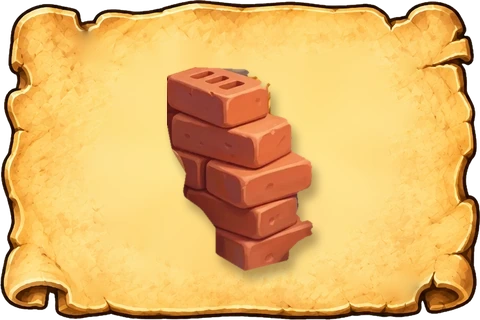
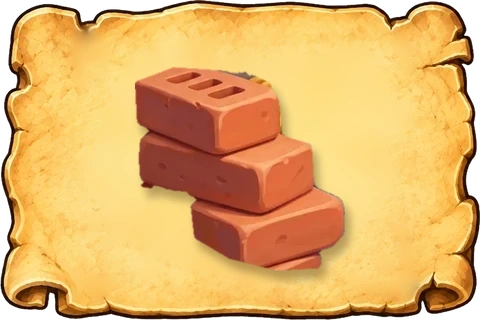
Thẻ gạch: cắt gọn chồng gạch, bỏ phần rách mép
Claude-Session: https://claude.ai/code/session_01C6iMuiryePgrs9m7ahj8VB

Changed region(s): [[0.2812, 0.1875, 0.75, 0.9062]]

diff --git a/games/dao-khai-hoang/art.js b/games/dao-khai-hoang/art.js
@@ -95,19 +95,19 @@ const KHART=(()=>{
     [[ax,ay],[bx,by]].forEach(([x,y])=>{ const L=Math.hypot(px-x,py-y), ux=(px-x)/L, uy=(py-y)/L; const nx=-uy*3.2, ny=ux*3.2;
       o+=`<polygon points="${f(x+nx)},${f(y+ny)} ${f(px+nx*.6)},${f(py+ny*.6)} ${f(px-nx*.6)},${f(py-ny*.6)} ${f(x-nx)},${f(y-ny)}" fill="#d9b27a" stroke="#8a5a2c" stroke-width="1.4"/>`;
       for(let k=1;k<6;k++){ const q=k/6; o+=`<line x1="${f(x+(px-x)*q+nx)}" y1="${f(y+(py-y)*q+ny)}" x2="${f(x+(px-x)*q-nx)}" y2="${f(y+(py-y)*q-ny)}" stroke="#8a5a2c" stroke-width="1"/>`; } });
-    o+=`<g transform="translate(${f(px)},${f(py)}) scale(1.25)"><path d="M-25 10 q6 -4 12 0 t12 0 t12 0 t12 0 t12 0" stroke="#fff" stroke-width="2.4" fill="none" opacity=".9"/><path d="M-20 14 q5 -3 10 0 t10 0 t10 0 t10 0" stroke="#bff3fb" stroke-width="1.6" fill="none" opacity=".8"/><g class="boat"><image href="assets/boat.webp?v=20261128zt" x="-20" y="-36.8" width="40" height="47.7" preserveAspectRatio="none"/></g></g>`;
+    o+=`<g transform="translate(${f(px)},${f(py)}) scale(1.25)"><path d="M-25 10 q6 -4 12 0 t12 0 t12 0 t12 0 t12 0" stroke="#fff" stroke-width="2.4" fill="none" opacity=".9"/><path d="M-20 14 q5 -3 10 0 t10 0 t10 0 t10 0" stroke="#bff3fb" stroke-width="1.6" fill="none" opacity=".8"/><g class="boat"><image href="assets/boat.webp?v=20261128zu" x="-20" y="-36.8" width="40" height="47.7" preserveAspectRatio="none"/></g></g>`;
     const bx2=px+Math.cos(ang)*42, by2=py+Math.sin(ang)*42;
     o+=`<g transform="translate(${f(bx2)},${f(by2)})"><circle r="15.5" fill="#f7ebcd" stroke="#9a6b36" stroke-width="2.4"/><circle r="12.5" fill="none" stroke="#c9a26a" stroke-width=".9"/>${t>=0?resMini(t,0,-4,.75):''}<text y="${t>=0?9:5}" class="pt">${t<0?'3:1':'2:1'}</text></g>`;
     return o; }
   // ---------- quân cờ ----------
   function shade(c,v){ return v>0?mix(c,'#ffffff',v):mix(c,'#000000',-v); }
   const HSPR={'#e11d48':'red','#2563eb':'blue','#16a34a':'green','#f8fafc':'white'};
-  function house(x,y,c,city,z){ z=z||1.28; const n=HSPR[c]||'red', u=`assets/house-${n}.webp?v=20261128zt`;
-    if(city){ const cu=`assets/city-${n}.webp?v=20261128zt`; return `<g transform="translate(${f(x)},${f(y)}) scale(${z})"><ellipse cx="0" cy="12" rx="19" ry="5.5" fill="#6b4423" opacity=".38"/><image href="${cu}" x="-19" y="-24" width="38" height="38" preserveAspectRatio="none"/></g>`; }
+  function house(x,y,c,city,z){ z=z||1.28; const n=HSPR[c]||'red', u=`assets/house-${n}.webp?v=20261128zu`;
+    if(city){ const cu=`assets/city-${n}.webp?v=20261128zu`; return `<g transform="translate(${f(x)},${f(y)}) scale(${z})"><ellipse cx="0" cy="12" rx="19" ry="5.5" fill="#6b4423" opacity=".38"/><image href="${cu}" x="-19" y="-24" width="38" height="38" preserveAspectRatio="none"/></g>`; }
     return `<g transform="translate(${f(x)},${f(y)}) scale(${z})"><ellipse cx="0" cy="10" rx="12" ry="3.6" fill="#6b4423" opacity=".35"/><image href="${u}" x="-12" y="-15.4" width="24" height="25.4" preserveAspectRatio="none"/></g>`; }
   function road(ax,ay,bx,by,c){ const n=HSPR[c]||'red', mx=(ax+bx)/2, my=(ay+by)/2; let ang=Math.atan2(by-ay,bx-ax)*180/Math.PI; if(ang>90) ang-=180; if(ang<-90) ang+=180;
     const L=Math.hypot(bx-ax,by-ay), w=Math.min(L-18,40), h=w*170/360;
-    return `<g transform="translate(${f(mx)},${f(my)}) rotate(${f(ang)})"><rect x="${f(-w/2+3)}" y="${f(-h/2+4)}" width="${f(w-6)}" height="${f(h-4)}" rx="4" fill="#6b4423" opacity=".35"/><image href="assets/road-${n}.webp?v=20261128zt" x="${f(-w/2)}" y="${f(-h/2-1)}" width="${f(w)}" height="${f(h)}" preserveAspectRatio="none"/></g>`; }
+    return `<g transform="translate(${f(mx)},${f(my)}) rotate(${f(ang)})"><rect x="${f(-w/2+3)}" y="${f(-h/2+4)}" width="${f(w-6)}" height="${f(h-4)}" rx="4" fill="#6b4423" opacity=".35"/><image href="assets/road-${n}.webp?v=20261128zu" x="${f(-w/2)}" y="${f(-h/2-1)}" width="${f(w)}" height="${f(h)}" preserveAspectRatio="none"/></g>`; }
   function robber(x,y){ return `<g transform="translate(${f(x)},${f(y)})" class="robber"><ellipse cx="2" cy="15" rx="11" ry="4" fill="#000" opacity=".45"/><path d="M-9,14 Q-11,6 -5,0 Q-8,-4 -6,-8 A7,7 0 1 1 6,-8 Q8,-4 5,0 Q11,6 9,14Z" fill="url(#khRob)" stroke="#000" stroke-width="1.2"/><ellipse cx="-3" cy="-10" rx="2.6" ry="3.6" fill="#fff" opacity=".35"/><ellipse cx="-5" cy="6" rx="2" ry="5" fill="#fff" opacity=".18"/><rect x="-9" y="12" width="18" height="3" rx="1.5" fill="#111"/></g>`; }
   function token(x,y,n){ const hot=n===6||n===8, k=KH.PIPS[n]||0;
     return `<g class="tok"><ellipse cx="${f(x+2)}" cy="${f(y+5)}" rx="17" ry="7" fill="#000" opacity=".35"/><circle cx="${f(x)}" cy="${f(y+2.5)}" r="16.5" fill="#8a6636"/><circle cx="${f(x)}" cy="${f(y)}" r="16" fill="url(#khToken)" stroke="#8a6636" stroke-width="2.2"/><circle cx="${f(x)}" cy="${f(y)}" r="13" fill="none" stroke="#fff" stroke-opacity=".7" stroke-width=".9"/>
@@ -115,9 +115,9 @@ const KHART=(()=>{
   // ---------- toàn bàn cờ tĩnh ----------
   function board(S,box){ const H=KH.HEX, V=KH.V, E=KH.E; const {minX,minY,w,h}=box;
     let s=`<defs>${defs()}${H.map((hx,i)=>`<clipPath id="khc${i}"><polygon points="${hexPts(hx.x*R,hx.y*R,R)}"/></clipPath>`).join('')}<clipPath id="khIsl"><polygon points="${island()}"/></clipPath></defs>`;
-    s+=`<rect x="${minX-500}" y="${minY-200}" width="${w+1000}" height="${h+400}" fill="#22b9e6"/><image href="assets/sea.webp?v=20261128zt" x="${minX-500}" y="${minY-200}" width="${w+1000}" height="${h+400}" preserveAspectRatio="xMidYMid slice"/>`;
+    s+=`<rect x="${minX-500}" y="${minY-200}" width="${w+1000}" height="${h+400}" fill="#22b9e6"/><image href="assets/sea.webp?v=20261128zu" x="${minX-500}" y="${minY-200}" width="${w+1000}" height="${h+400}" preserveAspectRatio="xMidYMid slice"/>`;
     { const Ri=4.3*R, kh=Ri/496.5, kv=.866*Ri/407.5, W=1254*kh, Hh=1254*kv; // đảo nền: lót cát + vành bãi cát vẽ sẵn
-      s+=`<polygon points="${island(4.35/4.85)}" fill="#e9bf7c"/><image href="assets/island-ring.webp?v=20261128zt" x="${f(-626.5*kh)}" y="${f(-615.5*kv)}" width="${f(W)}" height="${f(Hh)}" preserveAspectRatio="none"/>`; }
+      s+=`<polygon points="${island(4.35/4.85)}" fill="#e9bf7c"/><image href="assets/island-ring.webp?v=20261128zu" x="${f(-626.5*kh)}" y="${f(-615.5*kv)}" width="${f(W)}" height="${f(Hh)}" preserveAspectRatio="none"/>`; }
     s+=`<polygon points="${island(4.35/4.85)}" fill="#e9bf7c" opacity="0" clip-path="url(#khIsl)"/>`;
     const leaf=(x,y,r,c)=>`<circle cx="${f(x)}" cy="${f(y)}" r="${f(r)}" fill="${c}" stroke="#1f4a14" stroke-width="2.2"/><circle cx="${f(x-r*.3)}" cy="${f(y-r*.3)}" r="${f(r*.45)}" fill="#b6e66a" opacity=".55"/>`;
     const fol=(x,y,sg)=>`<g>`+`<path d="M${f(x)} ${f(y+70)} q${f(sg*-30)} ${f(-40)} ${f(sg*-90)} ${f(-70)}" stroke="#5a3a1c" stroke-width="12" fill="none" stroke-linecap="round"/><path d="M${f(x)} ${f(y+70)} q${f(sg*-30)} ${f(-40)} ${f(sg*-90)} ${f(-70)}" stroke="#8a5a2c" stroke-width="5" fill="none" stroke-linecap="round" opacity=".7"/>`+[[-20,28,26,'#4fa83a'],[-58,6,24,'#5fba44'],[-30,-6,22,'#3f9632'],[-78,34,20,'#4fa83a'],[4,-4,20,'#5fba44'],[-46,50,18,'#3f9632']].map(([dx,dy,r,c])=>leaf(x+sg*dx,y+dy,r,c)).join('')+`</g>`;
@@ -126,7 +126,7 @@ const KHART=(()=>{
     // ô đất (đế 3D + hình)
     H.forEach((hx,i)=>{ const cx=hx.x*R, cy=hx.y*R; s+=`<polygon points="${hexPts(cx,cy+6,R-1)}" fill="#d2b27a"/>${window.KH_LITE?'':`<polygon points="${hexPts(cx+2,cy+9,R)}" fill="#7a5a2a" opacity=".18" filter="url(#khSoft)"/>`}`; });
     H.forEach((hx,i)=>{ const cx=hx.x*R, cy=hx.y*R, hd=S.hex[i];
-      const HI=(window.KH_IMGS||{}).hex||[]; s+=`<g clip-path="url(#khc${i})">${HI.includes(hd.res)?`${hd.res<=5?`<image href="assets/hex-${hd.res}.webp?v=20261128zt" x="${f(cx-R*.9)}" y="${f(cy-R*1.04)}" width="${f(R*1.8)}" height="${f(R*2.08)}" preserveAspectRatio="none"/>`:`<image href="assets/hex-${hd.res}.webp?v=20261128zt" x="${f(cx-R*1.1)}" y="${f(cy-R*1.1)}" width="${f(R*2.2)}" height="${f(R*2.2)}" preserveAspectRatio="xMidYMid slice"/>`}`:terrain(hd.res,cx,cy,i)}${window.KH_LITE?'':`<rect x="${f(cx-R)}" y="${f(cy-R)}" width="${2*R}" height="${2*R}" filter="url(#khNoise)" opacity=".07"/>`}</g>`;
+      const HI=(window.KH_IMGS||{}).hex||[]; s+=`<g clip-path="url(#khc${i})">${HI.includes(hd.res)?`${hd.res<=5?`<image href="assets/hex-${hd.res}.webp?v=20261128zu" x="${f(cx-R*.9)}" y="${f(cy-R*1.04)}" width="${f(R*1.8)}" height="${f(R*2.08)}" preserveAspectRatio="none"/>`:`<image href="assets/hex-${hd.res}.webp?v=20261128zu" x="${f(cx-R*1.1)}" y="${f(cy-R*1.1)}" width="${f(R*2.2)}" height="${f(R*2.2)}" preserveAspectRatio="xMidYMid slice"/>`}`:terrain(hd.res,cx,cy,i)}${window.KH_LITE?'':`<rect x="${f(cx-R)}" y="${f(cy-R)}" width="${2*R}" height="${2*R}" filter="url(#khNoise)" opacity=".07"/>`}</g>`;
       s+=`<polygon points="${hexPts(cx,cy,R-1)}" fill="none" stroke="#d9bb82" stroke-width="3.4" stroke-linejoin="round"/><polygon points="${hexPts(cx,cy,R-4.5)}" fill="none" stroke="#b58b52" stroke-opacity=".45" stroke-width="1.3"/><polygon points="${hexPts(cx,cy,R)}" fill="none" stroke="#f3e2bb" stroke-width="1.6"/>`;
       });
     H.forEach((hx,i)=>{ const hd=S.hex[i]; if(hd.num) s+=token(hx.x*R,hx.y*R+8,hd.num); });
@@ -142,7 +142,7 @@ const KHART=(()=>{
   function resCard(r){ if(ccache['r'+r]) return ccache['r'+r]; const id='khrc'+r, nm=RN[r].toUpperCase();
     const s=`<svg viewBox="0 0 100 76" class="rcard"><defs>
       <linearGradient id="${id}w" x1="0" y1="0" x2="0" y2="1"><stop offset="0" stop-color="#c98a52"/><stop offset=".45" stop-color="#a8642f"/><stop offset="1" stop-color="#7d4520"/></linearGradient></defs>
-      <image href="assets/res-${r}.webp?v=20261128zt" x="1" y="10" width="98" height="65" preserveAspectRatio="none"/>
+      <image href="assets/res-${r}.webp?v=20261128zu" x="1" y="10" width="98" height="65" preserveAspectRatio="none"/>
       <g class="plank" transform="scale(1,.88)"><path d="M13 3.5 L16 1.5 H84 L87 3.5 L89 5.5 V17.5 L87 19.5 L84 21.5 H16 L13 19.5 L11 17.5 V5.5Z" fill="#1b0f06" transform="translate(0,1.2)" opacity=".55"/>
       <path d="M13 3 L16 1 H84 L87 3 L89 5 V17 L87 19 L84 21 H16 L13 19 L11 17 V5Z" fill="url(#${id}w)" stroke="#1b0f06" stroke-width="1.6" stroke-linejoin="round"/>
       <path d="M15 5 H55 M60 4.6 H84 M16 11 H40 M47 10.6 H70 M74 11 H86 M15 17.6 H48 M56 17.4 H84" stroke="#6b3a17" stroke-width=".7" stroke-linecap="round" fill="none" opacity=".7"/>
@@ -201,7 +201,7 @@ const KHART=(()=>{
     <text x="35" y="59" class="rn" style="font-size:22px;fill:#ffe9a8;stroke:#2e1809;stroke-width:3px;paint-order:stroke">?</text></svg>`; }
   function medal(k){ const road=k==='road', id='khmd'+k; return `<svg viewBox="0 0 64 64" class="mdl"><defs><linearGradient id="${id}g" x1="0" y1="0" x2="1" y2="1"><stop offset="0" stop-color="#fff0b0"/><stop offset=".5" stop-color="#e0a62c"/><stop offset="1" stop-color="#8a5a10"/></linearGradient><clipPath id="${id}c"><circle cx="32" cy="32" r="23"/></clipPath></defs>
     <circle cx="32" cy="33" r="30" fill="#000" opacity=".3"/><circle cx="32" cy="32" r="30" fill="url(#${id}g)" stroke="#4a2b08" stroke-width="2"/><circle cx="32" cy="32" r="24.5" fill="${road?'#c79a5a':'#6f86a8'}" stroke="#4a2b08" stroke-width="1.6"/>
-    ${road?`<g clip-path="url(#${id}c)"><rect x="8" y="8" width="48" height="48" fill="#8cc152"/><image href="assets/road-neutral.webp?v=20261128zt" x="9" y="22" width="46" height="21.7" preserveAspectRatio="none"/></g>`:`<g clip-path="url(#${id}c)"><image href="assets/dev-knight.webp?v=20261128zt" x="6" y="7" width="52" height="55.5" preserveAspectRatio="xMidYMid slice"/></g>`}
+    ${road?`<g clip-path="url(#${id}c)"><rect x="8" y="8" width="48" height="48" fill="#8cc152"/><image href="assets/road-neutral.webp?v=20261128zu" x="9" y="22" width="46" height="21.7" preserveAspectRatio="none"/></g>`:`<g clip-path="url(#${id}c)"><image href="assets/dev-knight.webp?v=20261128zu" x="6" y="7" width="52" height="55.5" preserveAspectRatio="xMidYMid slice"/></g>`}
     <circle cx="32" cy="32" r="24.5" fill="none" stroke="#4a2b08" stroke-width="1.6"/><g transform="translate(47,48)"><circle r="11.5" fill="#d92d2d" stroke="#4a0f0f" stroke-width="2"/><text y="5" class="rn" style="font-size:14px;fill:#fff;stroke:#4a0f0f;stroke-width:3px;paint-order:stroke">+2</text></g></svg>`; }
   return {R,board,house,road,robber,die,resCard,devCard,devBack,medal,resMini,hexPts,shade,RC};
 })();

diff --git a/games/dao-khai-hoang/ui.js b/games/dao-khai-hoang/ui.js
@@ -78,12 +78,12 @@ const KHUI=(()=>{
     let L=h, HV=''; h='';
     h+=`<div class="pls">${S.seats.map((p,i)=>{ const Q=S.P[i]; const left=S.turn===i&&S.phase!=='over'?Math.max(0,90-Math.floor((t-S.turnAt)/1000)):null;
       return `<div class="pl ${S.turn===i?'turn':''} ${S.winner===i?'win':''}" data-p="${i}" style="--pc:${PC[i]}"><div class="ph"><svg viewBox="-12 -16 24 28" class="pk">${A.house(0,0,PC[i],false,1)}</svg><b>${api.esc(p.name)}</b>${i===ME?' (bạn)':''}<span class="meds">${S.longest===i?`<span class="medal lr" title="Đường dài nhất +2 điểm">${A.medal('road')}</span>`:''}${S.largest===i?`<span class="medal la" title="Quân mạnh nhất +2 điểm">${A.medal('army')}</span>`:''}</span>${left!=null?` <span class="tmr">${left}</span>`:''}<span class="vp">${KH.vp(S,i,i===ME||S.phase==='over')}<small>điểm</small></span></div>
-        <div class="pcn"><span title="Nhà"><img src="assets/house-neutral.webp?v=20261128zt">${5-Q.towns}</span><span title="Thành phố"><img src="assets/city-neutral.webp?v=20261128zt">${4-Q.cities}</span><span title="Đường"><img src="assets/road-neutral.webp?v=20261128zt" class="rd">${15-Q.roads}</span></div>
+        <div class="pcn"><span title="Nhà"><img src="assets/house-neutral.webp?v=20261128zu">${5-Q.towns}</span><span title="Thành phố"><img src="assets/city-neutral.webp?v=20261128zu">${4-Q.cities}</span><span title="Đường"><img src="assets/road-neutral.webp?v=20261128zu" class="rd">${15-Q.roads}</span></div>
         ${i!==ME&&ME>=0?`<button class="tbtn sm pto" data-a="offerto" data-p="${i}" ${main&&P&&P.res[og]>=oq&&og!==ow?'':'disabled'} title="Gửi: đưa ${oq} ${KH_RES[og]}, lấy ${on} ${KH_RES[ow]}">Yêu cầu đổi</button>`:''}
         <div class="ps"><span title="Tài nguyên"><i>Tài nguyên: </i><u>🎴</u><b class="rn2">${KH.tot(Q.res)}</b></span><span title="Thẻ phát triển"><i>Thẻ PT: </i><u>📜</u>${Q.dev.length+Q.newDev.length}</span><span title="Hiệp sĩ đã dùng"><i>Hiệp sĩ: </i><u>⚔</u>${Q.knights}</span></div>
         </div>`; }).join('')}</div>`;
     const S1=h; h='';
-    { const V='?v=20261128zt';
+    { const V='?v=20261128zu';
       const cc=c=>c.map((x,r)=>x?`<span class="cr">${[...Array(x)].map(()=>`<svg viewBox="-9 -8 18 16" width="21" height="19">${A.resMini(r,0,0,.8)}</svg>`).join('')}</span>`:'').join('');
       const row=(ic,t,pt,c,att,dis,on)=>`<button class="ctr cbtn ${on?'on':''}" ${att} ${dis?'disabled':''}><span class="cic">${ic}</span><span class="ctx"><b>${t}</b><small>${pt}</small></span><span class="cco">${cc(c)}</span></button>`;
       const okR=main&&P&&(KH.canPay(P,KH_COST.road)||S.free)&&P.roads>0, okT=main&&P&&KH.canPay(P,KH_COST.town)&&P.towns>0, okC=main&&P&&KH.canPay(P,KH_COST.city)&&P.cities>0, okD=main&&P&&KH.canPay(P,KH_COST.dev)&&S.dev.length>0;
@@ -111,7 +111,7 @@ const KHUI=(()=>{
         const popH=pop==='bank'?`<div class="box pop"><div class="cth">Đổi với cảng · ngân hàng</div><div class="plb">Đưa (số lá cần có)</div><div class="rrow">${gb}</div><div class="plb">Lấy</div><div class="rrow">${wb}</div><button class="tbtn pri wide" data-a="trade" ${okT?'':'disabled'}>Đổi ${rt[tg]} ${KH_RES[tg]} lấy 1 ${KH_RES[tw]}</button></div>`
           :pop==='offer'?`<div class="box pop ptr"><div class="cth">Yêu cầu đổi với người chơi</div><div class="prow"><span>Đưa</span><select data-s="oq">${qty(oq)}</select><select data-s="og">${opt(0,og,ow)}</select></div><div class="prow"><span>Lấy</span><select data-s="on">${qty(on)}</select><select data-s="ow">${opt(0,ow,og)}</select></div>
           <div class="prow"><span>Cho</span><select data-s="ot"><option value="-1" ${ot<0?'selected':''}>Tất cả</option>${others.map(i=>`<option value="${i}" ${ot===i?'selected':''}>${api.esc(S.seats[i].name)}</option>`).join('')}</select></div>${main?(P.res[og]>=oq?'':'<div class="chint">Bạn chưa đủ lá để đưa</div>'):'<div class="chint">Chỉ gửi được trong lượt của bạn, sau khi đổ xúc xắc</div>'}<button class="tbtn pri wide" data-a="offer" ${okO?'':'disabled'}>Gửi yêu cầu đổi</button></div>`:'';
-        HV+=`<div class="tbar">${popH}<button class="bt ${anyB?'ring':''} ${pop==='bank'?'on':''}" data-a="pop" data-k="bank" title="Đổi với cảng / ngân hàng"><img src="assets/boat.webp?v=20261128zt" alt=""><small>Đổi cảng</small></button><button class="bt bm ${pop==='offer'?'on':''}" data-a="pop" data-k="offer" title="Chợ: yêu cầu đổi với người chơi"><svg viewBox="0 0 50 50" width="46" height="46" class="mk"><rect x="9" y="19" width="3" height="22" rx="1" fill="#8a5a2c" stroke="#3a210c" stroke-width="1"/><rect x="38" y="19" width="3" height="22" rx="1" fill="#8a5a2c" stroke="#3a210c" stroke-width="1"/><g stroke="#3a210c" stroke-width="1.1" stroke-linejoin="round"><polygon points="10,9 16,9 13.6,20 6.0,20" fill="#e11d48"/><polygon points="16,9 22,9 21.2,20 13.6,20" fill="#fff4d6"/><polygon points="22,9 28,9 28.8,20 21.2,20" fill="#e11d48"/><polygon points="28,9 34,9 36.4,20 28.8,20" fill="#fff4d6"/><polygon points="34,9 40,9 44.0,20 36.4,20" fill="#e11d48"/><circle cx="9.8" cy="20" r="3.8" fill="#e11d48"/><circle cx="17.4" cy="20" r="3.8" fill="#fff4d6"/><circle cx="25.0" cy="20" r="3.8" fill="#e11d48"/><circle cx="32.6" cy="20" r="3.8" fill="#fff4d6"/><circle cx="40.2" cy="20" r="3.8" fill="#e11d48"/></g><rect x="7" y="33" width="36" height="9" rx="2" fill="#b8763a" stroke="#3a210c" stroke-width="1.2"/><rect x="7" y="33" width="36" height="3" rx="1.5" fill="#d99a58"/><circle cx="17" cy="31" r="3.6" fill="#ef4444" stroke="#3a210c" stroke-width="1"/><circle cx="25" cy="30.5" r="3.6" fill="#facc15" stroke="#3a210c" stroke-width="1"/><circle cx="33" cy="31" r="3.6" fill="#4ade80" stroke="#3a210c" stroke-width="1"/></svg><small>Chợ</small></button></div>`; }
+        HV+=`<div class="tbar">${popH}<button class="bt ${anyB?'ring':''} ${pop==='bank'?'on':''}" data-a="pop" data-k="bank" title="Đổi với cảng / ngân hàng"><img src="assets/boat.webp?v=20261128zu" alt=""><small>Đổi cảng</small></button><button class="bt bm ${pop==='offer'?'on':''}" data-a="pop" data-k="offer" title="Chợ: yêu cầu đổi với người chơi"><svg viewBox="0 0 50 50" width="46" height="46" class="mk"><rect x="9" y="19" width="3" height="22" rx="1" fill="#8a5a2c" stroke="#3a210c" stroke-width="1"/><rect x="38" y="19" width="3" height="22" rx="1" fill="#8a5a2c" stroke="#3a210c" stroke-width="1"/><g stroke="#3a210c" stroke-width="1.1" stroke-linejoin="round"><polygon points="10,9 16,9 13.6,20 6.0,20" fill="#e11d48"/><polygon points="16,9 22,9 21.2,20 13.6,20" fill="#fff4d6"/><polygon points="22,9 28,9 28.8,20 21.2,20" fill="#e11d48"/><polygon points="28,9 34,9 36.4,20 28.8,20" fill="#fff4d6"/><polygon points="34,9 40,9 44.0,20 36.4,20" fill="#e11d48"/><circle cx="9.8" cy="20" r="3.8" fill="#e11d48"/><circle cx="17.4" cy="20" r="3.8" fill="#fff4d6"/><circle cx="25.0" cy="20" r="3.8" fill="#e11d48"/><circle cx="32.6" cy="20" r="3.8" fill="#fff4d6"/><circle cx="40.2" cy="20" r="3.8" fill="#e11d48"/></g><rect x="7" y="33" width="36" height="9" rx="2" fill="#b8763a" stroke="#3a210c" stroke-width="1.2"/><rect x="7" y="33" width="36" height="3" rx="1.5" fill="#d99a58"/><circle cx="17" cy="31" r="3.6" fill="#ef4444" stroke="#3a210c" stroke-width="1"/><circle cx="25" cy="30.5" r="3.6" fill="#facc15" stroke="#3a210c" stroke-width="1"/><circle cx="33" cy="31" r="3.6" fill="#4ade80" stroke="#3a210c" stroke-width="1"/></svg><small>Chợ</small></button></div>`; }
       { const mx=Math.max(0,...S.P.map(q=>q.lr)), mk=Math.max(0,...S.P.map(q=>q.knights)); const hd=i=>i>=0?`<span class="hold" style="--pc:${PC[i]}">${api.esc(S.seats[i].name)}</span>`:'<span class="hold none">Chưa ai</span>';
         const slot=(k,cls,own)=>own<0?`<span class="medal ${cls}">${A.medal(k)}</span>`:`<span class="slot"></span>`;
         L+=`<div class="box awp"><div class="cth">Giải thưởng +2 điểm</div>

diff --git a/games/dao-khai-hoang/index.html b/games/dao-khai-hoang/index.html
@@ -13,8 +13,8 @@
 <script src="../../core/effects.js"></script>
 <script src="../../core/table.js"></script>
 <script src="../../core/cards.js"></script>
-<script src="game.js?v=20261128zt"></script>
-<script src="assets/imgs.js?v=20261128zt"></script>
+<script src="game.js?v=20261128zu"></script>
+<script src="assets/imgs.js?v=20261128zu"></script>
 <script>
 window.KH_FX=(function(){const d=document.documentElement;
  function mode(){let m=null;try{m=localStorage.getItem('kh-fx');}catch(e){} if(m==='full'||m==='lite') return m;
@@ -24,8 +24,8 @@ window.KH_FX=(function(){const d=document.documentElement;
  function toggle(){const n=mode()==='lite'?'full':'lite';try{localStorage.setItem('kh-fx',n);}catch(e){} return apply();}
  apply(); return {mode,apply,toggle};})();
 </script>
-<script src="art.js?v=20261128zt"></script>
-<script src="ui.js?v=20261128zt"></script>
+<script src="art.js?v=20261128zu"></script>
+<script src="ui.js?v=20261128zu"></script>
 <script>
 const CSS=`#kh{padding:8px 10px 14px;min-height:calc(100vh - 60px);background:radial-gradient(ellipse at 40% 30%,#6b4524 0%,#4a2d15 55%,#2c1a0b 100%);color:#f6ead0}
 #kh::before{content:"";position:fixed;inset:0;pointer-events:none;opacity:.18;background:repeating-linear-gradient(92deg,transparent 0 22px,rgba(0,0,0,.25) 22px 24px,transparent 24px 60px),repeating-linear-gradient(88deg,rgba(255,220,170,.06) 0 3px,transparent 3px 9px)}
